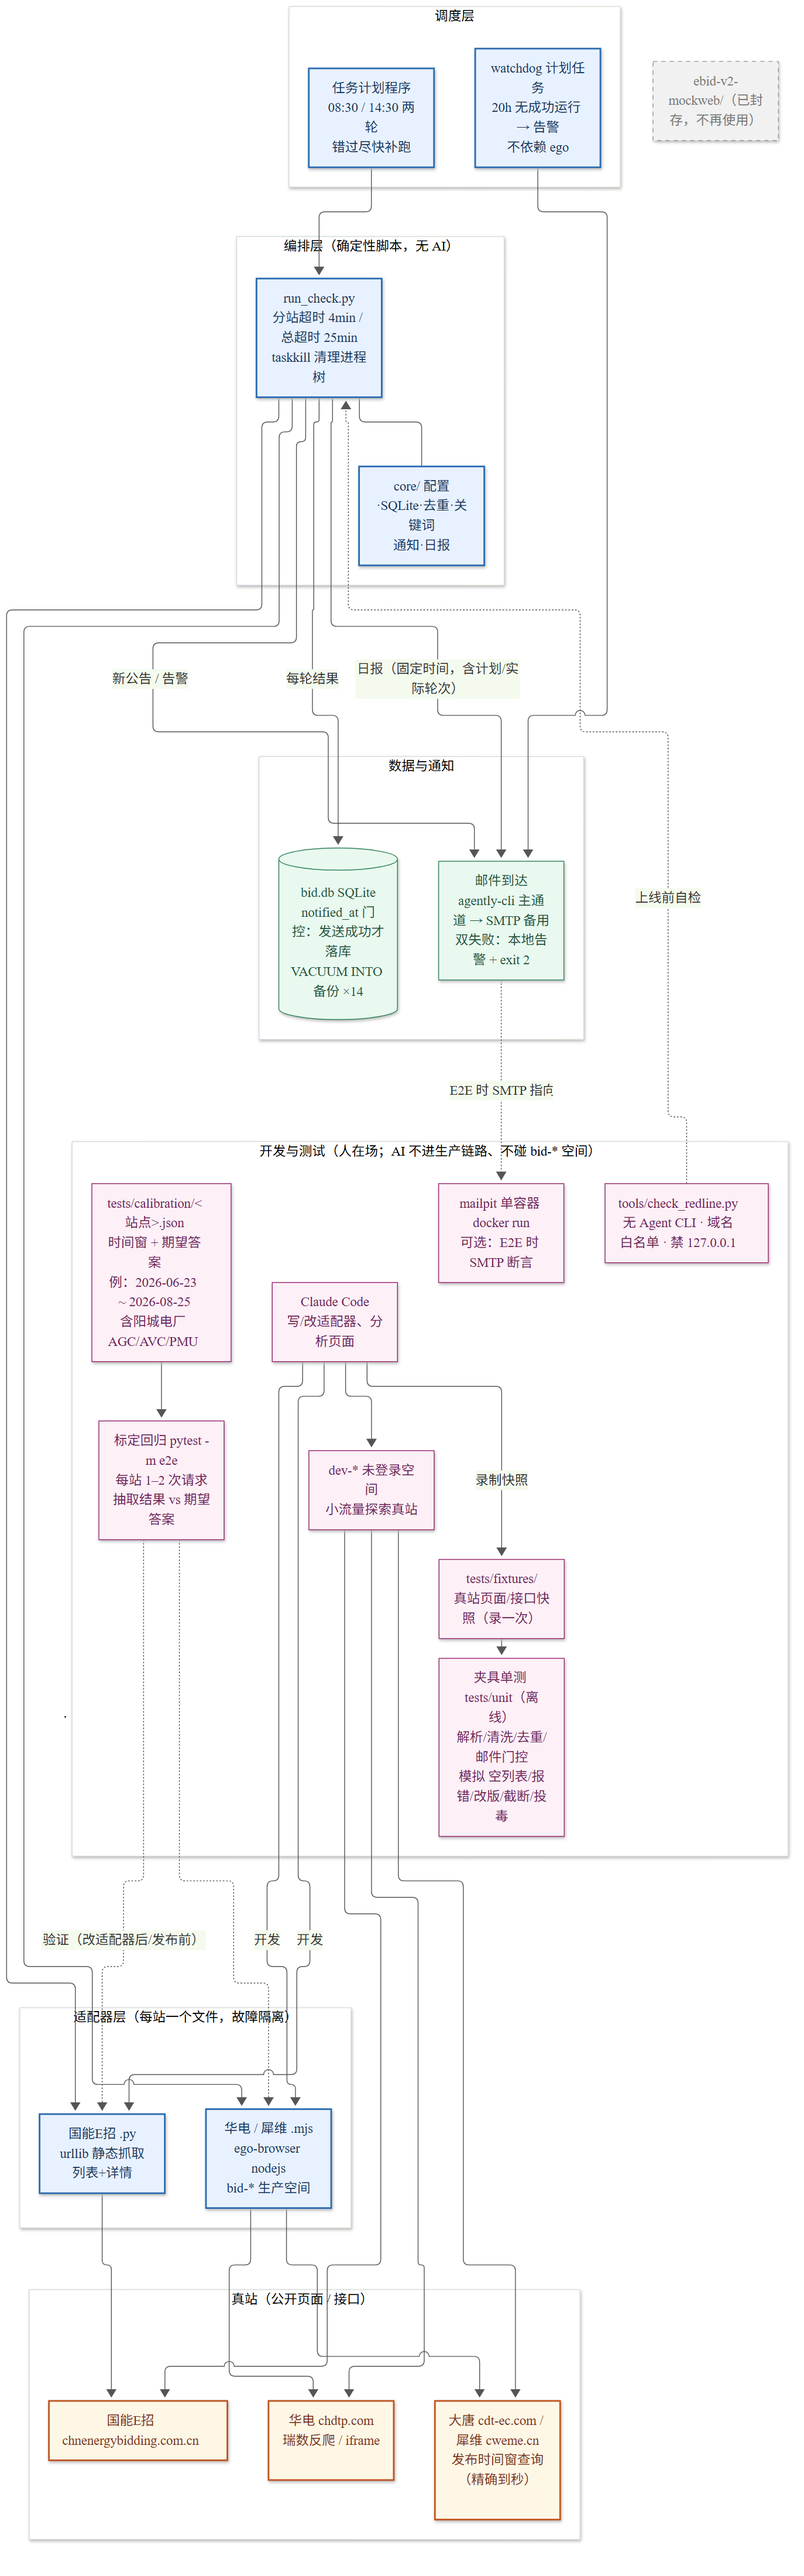
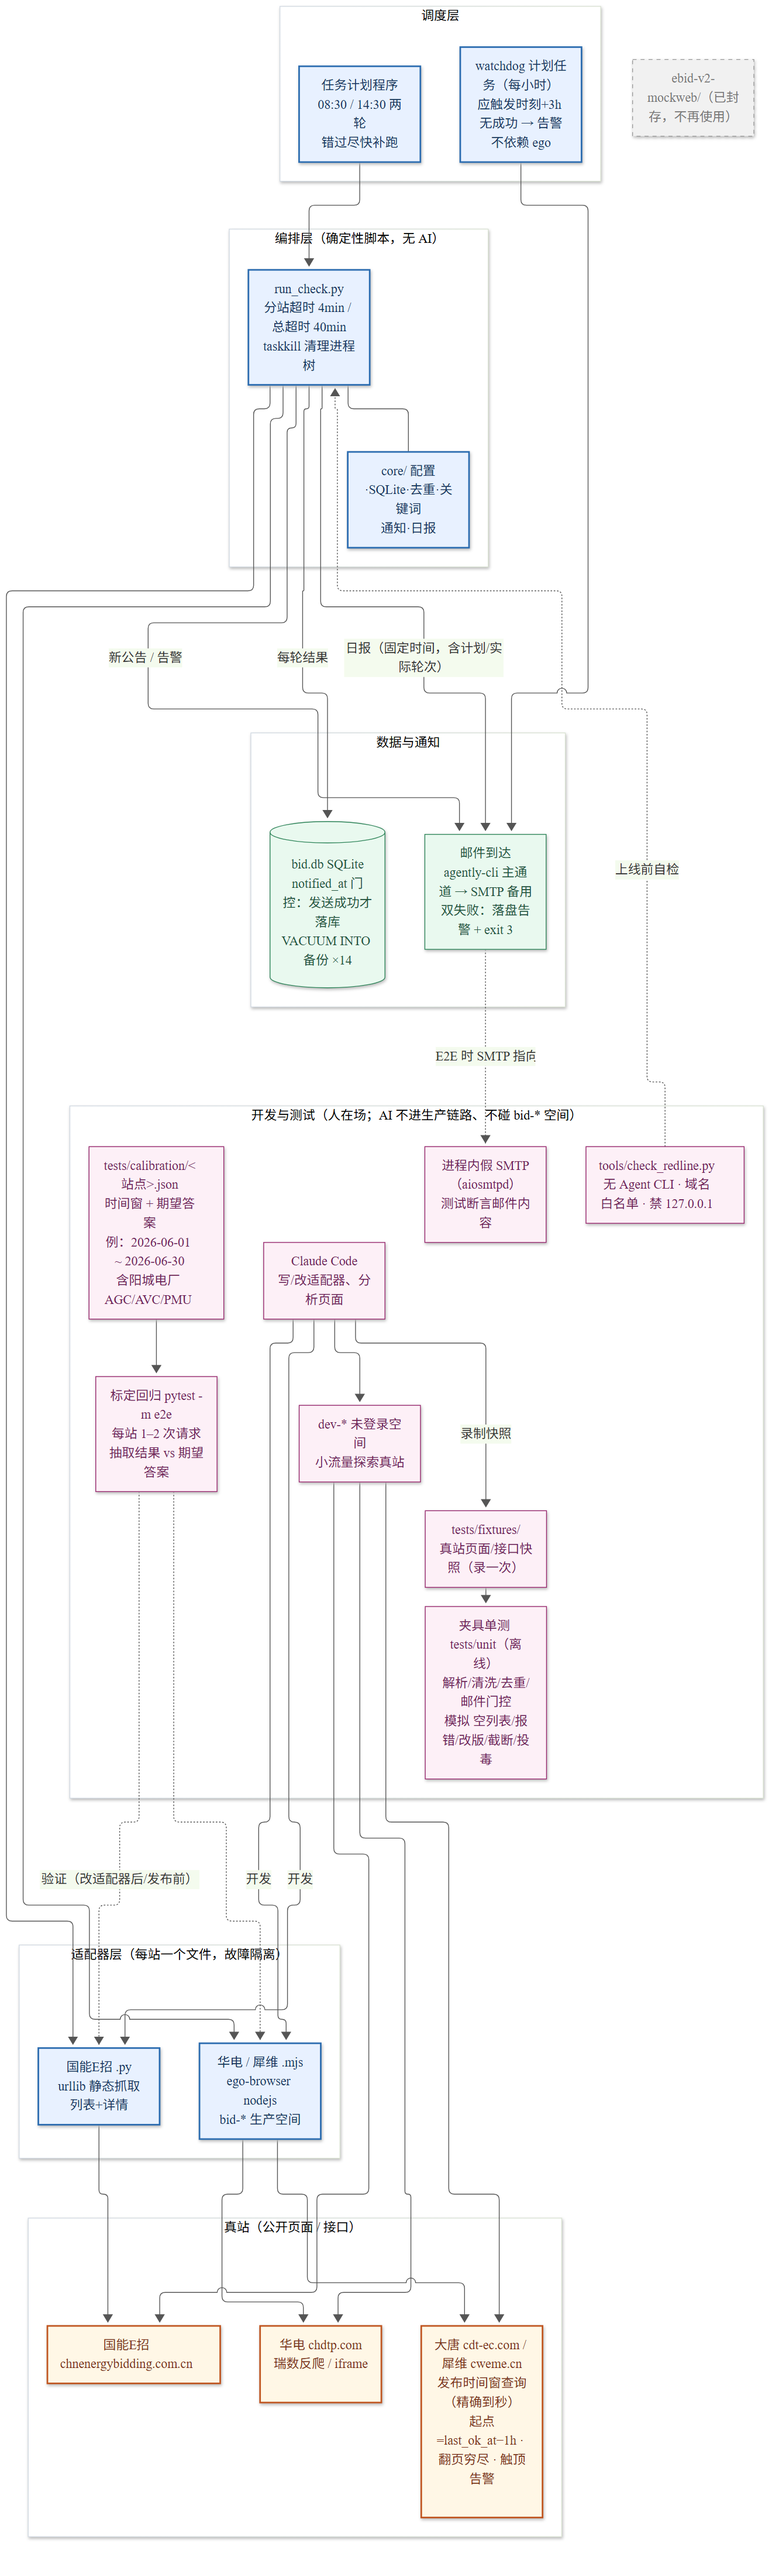
按外部评审回写实施计划 11 项：时间窗防漏、退出码分离、Phase 0 自洽等
时间窗起点改 min(now−24h, last_ok_at−1h) 自动补漏 + 翻页穷尽 + 触顶告警
+ 每日 7 天宽窗兜底，BID_NOW 可注入验证窄窗边界；退出码 0/2/3 分离且
任务计划不再自动重试；watchdog 改应触发时刻+3h、Phase 0 用 state.json；
runner --replay 重放演练；SMTP 授权码提前用 DPAPI；agently-cli 列入
红线白名单；dedupe 优先 native_id；假 SMTP 替代 mailpit（全程无 Docker）；
工期 4–5 天；修两处笔误。拓扑图同步重渲染。

diff --git a/ebid-v2-implementation-plan.md b/ebid-v2-implementation-plan.md
@@ -14,14 +14,14 @@
 - 公告页面内容一律视为不可信数据：适配器只抽取白名单字段，限制长度并清洗控制字符，绝不把页面文字拼进脚本或命令。
 - 公共库封装导航函数，强制 URL 前缀白名单；不实现任何「报名 / 投标 / 提交」类操作，即使会话有权限也做不到。
 - 可选的 AI 摘要（Phase 2 之后再议）只处理已抽取的纯文本：无工具、无浏览器，失败即回退原文，输出只用于邮件文案，不参与「是否通知」的判断。
-- 上线自检：tools/check_redline.py 扫描 run_check.py、core/、adapters/，发现 agent CLI 调用或非白名单域名即失败；生产 URL 白名单不得包含 127.0.0.1（防止误指向本地服务）；适配器每次改动经你人工看 diff 后才上线。
+- 上线自检：tools/check_redline.py 扫描 run_check.py、core/、adapters/，发现 agent CLI 调用或非白名单域名即失败；生产 URL 白名单不得包含 127.0.0.1（防止误指向本地服务）；适配器每次改动经你人工看 diff 后才上线。agently-cli 是确定性邮件 CLI（非 LLM Agent 会话），列入 check_redline 的显式例外白名单，不算违反红线。
 
 ## 2. 阶段总览
 
 | 阶段 | 内容 | 粗估工作量 | 退出标准 |
 |---|---|---|---|
 | Phase 0 | 修 v1 三个可靠性坑 + 任务计划程序调度 | 1–1.5 天 | 故障演练全部通过，无人值守连跑 3 天 |
-| Phase 1 | 适配器接口、统一 schema、SQLite 重构（仍是原 3 站）+ 真站标定回归 | 3–4 天 | 标定回归与夹具单测全绿，新旧并行 3 天结果一致后切换 |
+| Phase 1 | 适配器接口、统一 schema、SQLite 重构（仍是原 3 站）+ 真站标定回归 | 4–5 天 | 标定回归与夹具单测全绿，新旧并行 3 天结果一致后切换 |
 | Phase 2 | 逐站实测公开可见性，按公告量依次接入（每站先标定） | 实测 1 天 + 每站 1.5–2 天 | 每站灰度 2 轮后正式启用 |
 | Phase 3 | 评估必须登录的站点（会话流程用真站验证，不再建登录 mock） | 决策 0.5 天；实施每站 2–4 天 | 通过决策门才实施 |
 
@@ -44,11 +44,13 @@ if no_email: return # 演练模式不写库, 避免吞掉公告
 ok = send_with_retry(fresh_new) # 立即 / 30 秒 / 2 分钟, 各 1 次
 if not ok: ok = send_via_smtp(fresh_new) # agently 失败再走 SMTP 备用
 if ok: mark_seen(fresh_new) # 只有发送成功才落库
-else: write_local_alert(); sys.exit(2) # 保持未通知, 下一轮自动重试
+else: write_local_alert(); sys.exit(3) # 邮件双失败专用退出码, 保持未通知, 下一轮自动重试
 ```
 
 - 发送成功的判定增加进程返回码检查，不只依赖输出里的 ok 字符串。
 - 取舍：若邮件实际已发出但响应解析失败，下一轮可能重复通知一次——宁重勿漏。
+- write_local_alert()：双通道都失败时，把待发公告与告警写入 data/alerts/pending.json（落盘是邮件链路全坏时的最后底牌），下一轮启动时优先补发，未决告警同时夹带进日报。
+- SMTP 授权码（备用通道凭据）Phase 0 即用 Windows DPAPI 加密存 data/secrets.dpapi（约十行代码，不必等 Phase 3），不进 git。
 
 ### 0.2 修「静默失败」
 
@@ -59,13 +61,13 @@ else: write_local_alert(); sys.exit(2) # 保持未通知, 下一轮自动重试
 - 站点此前稳定有列表数据，本轮 raw_count 为 0 → 视为疑似改版，同样告警。
 - ego 整体无产出（浏览器站全挂）→ 告警。
 - 站点恢复 → 发一封恢复通知。
-- 退出码：CLEAN / FOUND 为 0，WARN 为 2，任务计划程序里能直接看到失败。
-- 状态先存 data/state.json（站点连续失败数、上次告警时间），Phase 1 并入 SQLite。
+- 退出码：CLEAN / FOUND 为 0；WARN（站点连续失败等告警类）为 2；邮件双失败为 3——分码让任务计划日志能区分「站点问题」与「通知链路问题」。
+- 状态先存 data/state.json（站点连续失败数、上次告警时间、全局 last_success_at——watchdog 用），Phase 1 并入 SQLite。
 
 ### 0.3 补「心跳」
 
 - 每日固定一封日报（建议 08:30 那一轮结束后发），主题固定，无新公告也发。内容：各站 24 小时内成功次数、抓取总条数、新增数、最近一条相关公告的日期、计划轮次/实际成功轮次（漏跑可见）。
-- 独立 watchdog：再建一个不依赖 ego 的任务计划，仅检查「距上次成功运行（由 runs 表推导）是否超过 20 小时」，超过即发告警邮件（阈值须大于 2 触发器下 18h 的正常最长空档）。机器整体不可用时 watchdog 同样失效，最终兜底是「日报没到即人工介入」。外部 dead-man's switch 类服务与不上云约束冲突，不引入。
+- 独立 watchdog：再建一个不依赖 ego 的任务计划（每小时跑一次），仅检查「上一个应触发时刻（08:30/14:30）过后 3 小时仍无成功运行」即发告警——不用固定 20 小时阈值（18h 正常空档加晚登录一小时就误报）。成功时间 Phase 0 取 data/state.json 的 last_success_at（每轮成功后更新），Phase 1 起改由 runs 表推导。机器整体不可用时 watchdog 同样失效，最终兜底是「日报没到即人工介入」。外部 dead-man's switch 类服务与不上云约束冲突，不引入。
 - 「没收到日报」本身就是系统异常的信号（任务计划挂了、电脑关机、邮件通道坏了）。不依赖云端 ping，符合「不上云」约束。
 
 ### 0.4 迁移到任务计划程序
@@ -73,13 +75,13 @@ else: write_local_alert(); sys.exit(2) # 保持未通知, 下一轮自动重试
 - 触发器：08:30 与 14:30 两个。
 - 运行条件：仅当用户登录时运行（ego 是桌面应用，注销后无法运行，锁屏没问题）；允许唤醒计算机；错过后尽快运行；不并行启动新实例。
 - 上线前验证 ego 是否必须在登录会话中运行（决定「无论用户是否登录都运行」是否可用）；漏跑可见性靠日报的计划/实际轮次对比。
-- 失败处理：失败后 10 分钟重试，最多 2 次；任务时间上限 30 分钟。
+- 失败处理：不设任务计划层自动重试——重试语义在 runner 内部（邮件三连试 + 下一轮补发），任务计划层重试会整轮重跑、对反爬站点是成倍的额外访问；站点长期宕机由连续失败告警暴露。任务时间上限 45 分钟（Phase 2 扩到 9 站、串行 4 分钟/站的预算）。
 - 操作：程序填 conda 环境里 python 的绝对路径，参数 run_check.py，起始于 C:/work/ebid（v2 仓库根）；标准输出重定向到 data/logs/run_日期_时间.log，保留 30 天。
 - 切换顺序：先暂停 Claude 应用里的 avc-agc-bid-watch，再启用新任务，避免双发和并发写 seen.json。
 
 ### 0.5 进程超时
 
-subprocess.run(timeout) 只杀直接子进程。改为 Popen，超时后 taskkill /PID <pid> /T /F 清理整个进程树，并设分站超时（建议 4 分钟）与总超时（建议 25 分钟）。
+subprocess.run(timeout) 只杀直接子进程。改为 Popen，超时后 taskkill /PID <pid> /T /F 清理整个进程树，并设分站超时（建议 4 分钟）与总超时（建议 40 分钟：9 站串行预算，且小于任务上限 45 分钟）。
 
 涉及文件：run_check.py（改）、data/state.json（新）、.gitignore（改）。
 
@@ -133,7 +135,7 @@ ebid-v2-mockweb/ # [封存] 原 mockweb 实现与文档, 不再使用不删除
 | site_runs | run_id、site、ok、error、raw_count、matched_count、new_count、session_state、duration_s |
 | site_state | site、consecutive_failures、last_ok_at、last_alert_at、last_nonzero_raw_at |
 
-- dedupe_key = 站点 + 类型 + (native_id 或 sha1(title_norm + 日期))。
+- dedupe_key = 站点 + 类型 + (native_id 或 sha1(title_norm + 日期))；native_id 优先（从 URL/接口提取，如犀维 gg_id、华电 onclick id，天然免疫标题截断），sha1 仅用于确无 id 的站点——截断标题去掉省略号后仍只是完整标题的前缀，两者哈希并不相等，不能当第一选择。
 - title_norm：去掉省略号和空白、统一全半角，解决 v1 浏览器站标题被截断导致同条公告键不稳定的问题。
 - 变更公告的类型进入键，作为新事件通知（截止时间变更对投标很关键）。
 - notified_at 为空即待通知——这是 Phase 0.1 修复在数据层的通用化；用 sqlite3 标准库，写入走事务，避免 seen.json 的非原子写入问题。
@@ -145,6 +147,7 @@ ebid-v2-mockweb/ # [封存] 原 mockweb 实现与文档, 不再使用不删除
 
 - tools/import_seen.py：一次性导入 old/data/seen.json（v1 归档时已移入 old/，标为 legacy 已通知），导入后跑一次 --baseline，避免首轮重复通知。
 - pytest 单测覆盖（不访问网络）：title_norm、dedupe_key、关键词正则、邮件落库门控（用假发送器）、各站夹具解析（tests/fixtures/<站点>/ 下录制的 HTML/JSON）。
+- runner 重放与故障注入：run_check.py --replay 读 data/out/ 夹具 + 假发送器，把 Phase 0 的演练 1/2（邮件双失败不丢公告、连续失败触发告警）变成自动化用例——只测编排逻辑，不访问网络、不依赖任何服务。
 - 关键词集中在 core/keywords.py：包含词、排除词；ASCII 词加边界，如 (?<![A-Za-z])AVC(?![A-Za-z])。关键词做成配置表：覆盖全称/简称（自动电压控制/自动发电控制）、全半角与大小写、业务关联叫法（调频、涉网等，按行业习惯补全）；标题与正文都匹配（§5.3 已抓正文）；notices 表记录命中词便于复盘；宁可误报不漏报；每月人工抽检一次——在各站内手工检索关键词，与监控命中结果比对，评估召回。
 - 新旧并行 3 天（旧入口保留为 run_check_v1.py，只演练不发信），比对条目集合，差异可解释后切换。
 
@@ -152,15 +155,17 @@ ebid-v2-mockweb/ # [封存] 原 mockweb 实现与文档, 不再使用不删除
 
 **原理**：真站历史公告不改写。选定一个历史时间窗（或关键词/类型组合），窗内公告集合固定；一次性人工核对窗内 AVC/AGC 公告，录制成「期望答案」；此后回归时适配器带同一组查询参数请求真站，断言抽取结果与期望一致。改版、字段映射回归、翻页、去重都能用同一套数据验证——而且验证的是真站本身，不存在「mock 与真站不一致」问题。
 
-**时间窗是统一参数（生产 24h / 测试 N×24h）**：凡站点自带发布时间查询（大唐 cdt-ec、犀维 cweme，及 Phase 2 多数平台），适配器生产运行一律按「发布时间 ∈ [now−W, now]」查询取数，不抓默认列表页；W 暂定 24 小时——大于 2 触发器下 18h 的最大空档（§5.4），重叠命中的旧公告交给去重键吸收，W 可配置（补跑漏轮时调大即可）。标定回归把同一参数拉长为 N×24 小时，圈进已知历史公告——生产与测试走同一条查询路径，只差窗长。无时间查询的站点（国能、华电）仍抓默认列表页，靠 raw_count 告警与去重兜底。
+**时间窗是统一参数（生产 24h / 测试 N×24h）**：凡站点自带发布时间查询（大唐 cdt-ec、犀维 cweme，及 Phase 2 多数平台），适配器生产运行一律按「发布时间 ∈ [start, now]」查询取数，不抓默认列表页。start = min(now−24h, 该站上次成功时间 last_ok_at − 1h 重叠)——关机/漏跑多轮后下一轮自动补齐全部空档，不依赖人工调大窗口；重复命中由去重键吸收。列表翻页到穷尽（下一页为空或短页即停），单站超过 5 页记「触顶」告警（疑似改版或公告风暴）。每日 08:30 轮对时间窗站点加跑一次 7 天宽窗兜底，防窗口逻辑缺陷造成静默漏抓。标定回归把同一参数拉长为 N×24 小时，圈进已知历史公告——生产与测试走同一条查询路径，只差窗长。无时间查询的站点（国能、华电）仍抓默认列表页，靠 raw_count 告警与去重兜底。
+
+**生产窄窗必须先对已知答案验证**：now 可注入（环境变量 BID_NOW）；标定时除长窗外，另对已知公告发布时刻前后各构造一个终点为 now 的 24h 窗跑一遍并断言命中——验证端点闭合语义（含不含边界）、时区与服务器时钟偏差。
 
 **各站标定手段（按站点自带查询能力选）**：
 
 | 站点 | 控制手段 | 标定示例 |
 |---|---|---|
-| 大唐 cdt-ec | more.jsp 发布时间起止（精确到秒），另有公告名称/采购单位/招标编号筛选 | 窗 2026-06-23 15:01:09 ~ 2026-08-25 19:53:34（边界取实际发布时间戳），窗内含【山西公司阳城电厂柳家河、照山光伏电站AGC、AVC、PMU升级改造】招标公告（2026-06-25 19:53:34）等已知公告 |
+| 大唐 cdt-ec | more.jsp 发布时间起止（精确到秒），另有公告名称/采购单位/招标编号筛选 | 窗 2026-06-01 00:00:00 ~ 2026-06-30 23:59:59，窗内含【山西公司阳城电厂柳家河、照山光伏电站AGC、AVC、PMU升级改造】招标公告（2026-06-25 19:53:34）等已知公告 |
 | 犀维 cweme | getList 接口 startDate/endDate + messagetype/message_title（v1 已用） | 同上思路：选窗录制期望集 |
-| 华电 chdtp | 无时间参数；用 ggbt 关键词圈定（选一个只命中国家已知历史公告的词），或退化为结构断言 | 关键词「PMU升级改造」级别的长词，命中集小且稳定 |
+| 华电 chdtp | 无时间参数；用 ggbt 关键词圈定（选一个只命中已知历史公告的词），或退化为结构断言 | 关键词「PMU升级改造」级别的长词，命中集小且稳定 |
 | 国能E招 | 静态站无查询：固定 URL 只断言结构与 raw_count>0；解析正确性靠夹具单测 | moreinfo/2/3 页正则抽取的结构断言 |
 
 **标定文件**：tests/calibration/<站点>.json —— 查询参数、期望条目（标题/native_id/日期/类型）、录制日期、期望 raw_count。夹具快照存 tests/fixtures/<站点>/（第一次录制时保存页面/接口原文，供单测离线复现）。
@@ -169,7 +174,7 @@ ebid-v2-mockweb/ # [封存] 原 mockweb 实现与文档, 不再使用不删除
 
 **执行与频率**：pytest -m e2e 驱动；每站每轮 1–2 次请求，只在改适配器后与发布前各跑一次，访问量远低于人工浏览；开发期间用 dev-* 空间。浏览器站 E2E 前先探测 ego 就绪（ego-browser --version），缺则报错不静默跳过。
 
-**通知链路测试**（不依赖 mockweb）：SMTP 断言用本地 mailpit 单容器按需起（`docker run -d -p 127.0.0.1:18026:1025 -p 127.0.0.1:18025:8025 axllent/mailpit`，测试完即删）；agently 通道用环境开关禁用或替换为假 CLI，以演练「agently 与 SMTP 双失败」。
+**通知链路测试**（无 Docker）：pytest 进程内起假 SMTP 接收器（aiosmtpd，仅测试依赖）接收并断言邮件内容；agently 通道用环境开关禁用或替换为假 CLI，以演练「agently 与 SMTP 双失败」。
 
 **标定漂移的处理**：站点若改写/删除历史公告导致回归失败，先人工确认是站点行为还是适配器回归——这本身就是有价值的改版信号；确认后重录标定文件并在其中注明重录原因。
 
@@ -258,5 +263,5 @@ ebid-v2-mockweb/ # [封存] 原 mockweb 实现与文档, 不再使用不删除
 
 1. C1/C2（审阅清单仅存的人工事项）：改密码、转私有、清历史、收敛凭据副本——先做。
 2. Phase 0（1–1.5 天）跑满 3 天演练。
-3. Phase 1（3–4 天，无 Docker 依赖）：spike stdin import → SQLite/schema/适配器接口 → 录 3 站夹具与标定 → 单测与标定回归全绿 → 并行 3 天切换。
+3. Phase 1（4–5 天，无 Docker 依赖）：spike stdin import → SQLite/schema/适配器接口 → 录 3 站夹具与标定 → 单测与标定回归全绿 → 并行 3 天切换。
 4. Phase 2 开头实测表（决定接几个站、接哪些、Phase 3 要不要做）可在 Phase 1 期间并行完成。
